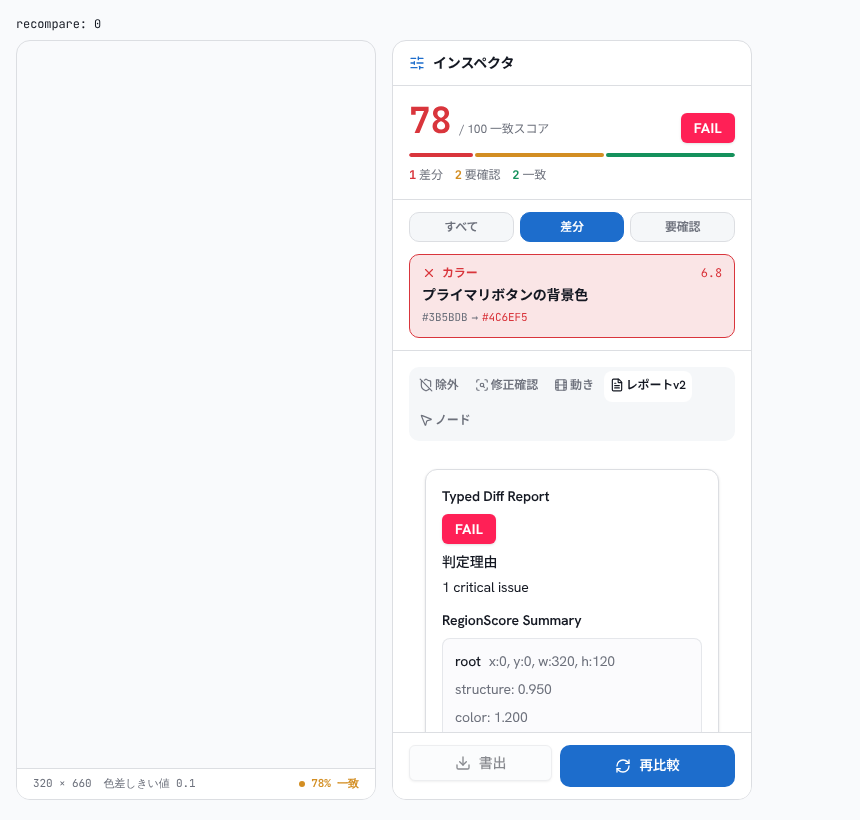
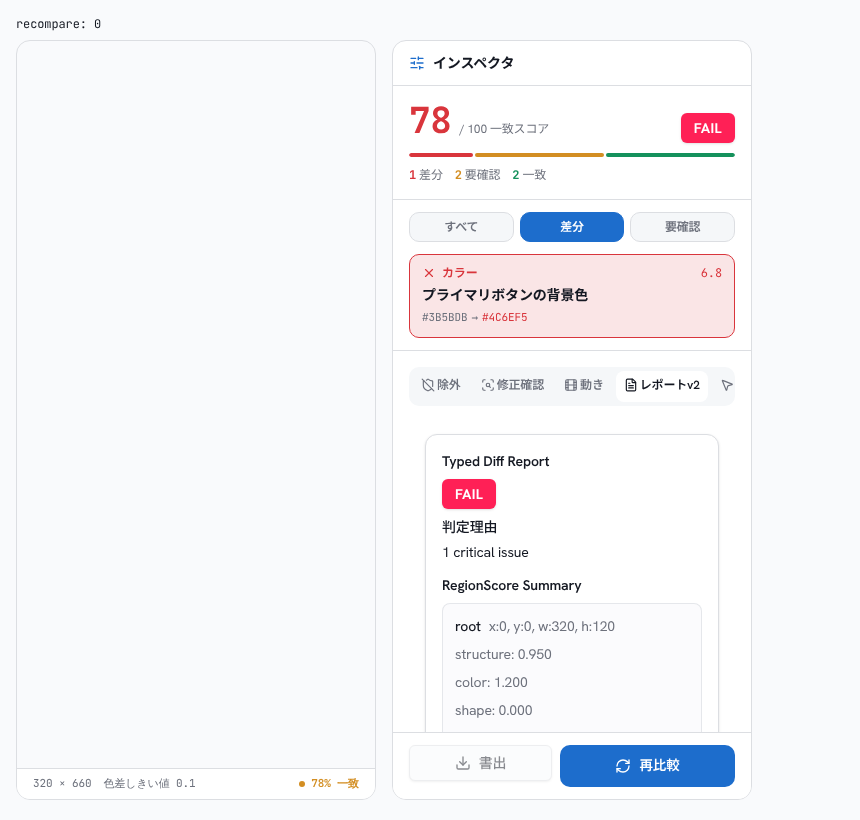
wip(desktop): Workspace inspector finishing touches (#445)
Claude-Session: https://claude.ai/code/session_01Cv4a6GPuLpPkt2VBBYyjc5

Changed region(s): [[0.514, 0.5488, 0.7256, 0.8841], [0.4837, 0.4573, 0.8163, 0.5183]]

diff --git a/app/desktop/e2e/compare-inspector.spec.ts b/app/desktop/e2e/compare-inspector.spec.ts
@@ -73,6 +73,36 @@ test.describe("Compare inspector (Workspace)", () => {
     await page.screenshot({ path: resolve(EVIDENCE_DIR, "inspector-filter-review.png") });
   });
 
+  test("フィルタ操作の動画を残す", async ({ browser }) => {
+    test.skip(!process.env.ISSUE_445_EVIDENCE, "動画は ISSUE_445_EVIDENCE=1 のときだけ録画する");
+    const videoDir = resolve(EVIDENCE_DIR, "../../../app/desktop/test-results/issue-445-video");
+    const context = await browser.newContext({
+      viewport: { width: 1280, height: 800 },
+      recordVideo: { dir: videoDir, size: { width: 1280, height: 800 } },
+    });
+    const page = await context.newPage();
+    const video = page.video();
+    await page.goto(TEST_URL);
+    await page.waitForSelector('[data-testid="compare-inspector"]');
+    const filter = page.getByTestId("inspector-filter");
+    const cards = page.getByTestId("issue-card");
+
+    await filter.getByRole("button", { name: "差分" }).click();
+    await expect(cards).toHaveCount(1);
+    await page.waitForTimeout(800);
+    await filter.getByRole("button", { name: "要確認" }).click();
+    await expect(cards).toHaveCount(2);
+    await page.waitForTimeout(800);
+    await filter.getByRole("button", { name: "すべて" }).click();
+    await expect(cards).toHaveCount(3);
+    await cards.first().hover();
+    await page.waitForTimeout(800);
+
+    await context.close();
+    if (video === null) throw new Error("video was not recorded");
+    await video.saveAs(resolve(EVIDENCE_DIR, "inspector-filter.webm"));
+  });
+
   test("再比較ボタンが押せる", async ({ page }) => {
     await page.getByRole("button", { name: "再比較" }).click();
 

diff --git a/app/desktop/src/component/compare/result-tool-tab.tsx b/app/desktop/src/component/compare/result-tool-tab.tsx
@@ -37,7 +37,7 @@ function ResultTabButton({
   return (
     <button
       type="button"
-      className="min-w-0 rounded-[8px] px-1.5 py-1.5 font-semibold text-xs"
+      className="flex-1 shrink-0 whitespace-nowrap rounded-[8px] px-2 py-1.5 font-semibold text-xs"
       onClick={onClick}
       style={{
         background: active ? "var(--surface)" : "transparent",
@@ -105,7 +105,7 @@ export function ResultToolTabs({ onChange, ...content }: ResultToolTabsProps) {
   return (
     <div className="space-y-3">
       <div
-        className="flex flex-wrap gap-1 rounded-[var(--radius-sm-token)] p-1"
+        className="flex flex-nowrap gap-1 overflow-x-auto rounded-[var(--radius-sm-token)] p-1"
         data-testid="result-tabs"
         role="group"
         aria-label={t("inspector.toolsLabel")}

diff --git a/app/desktop/src/component/compare/compare-page.tsx b/app/desktop/src/component/compare/compare-page.tsx
@@ -29,14 +29,13 @@ import type { LucideIcon } from "lucide-react";
 
 interface FlowMode {
   id: ViewMode;
-  label: string;
   icon: LucideIcon;
 }
 
 const FLOW_VIEW_MODES: FlowMode[] = [
-  { id: "pixel_diff", label: "DIFF", icon: Zap },
-  { id: "transparent_overlay", label: "OVERLAY", icon: Layers },
-  { id: "split_screen", label: "SIDE-BY-SIDE", icon: Split },
+  { id: "pixel_diff", icon: Zap },
+  { id: "transparent_overlay", icon: Layers },
+  { id: "split_screen", icon: Split },
 ];
 
 function StepDot({ done, fallback }: { done: boolean; fallback: string }) {
